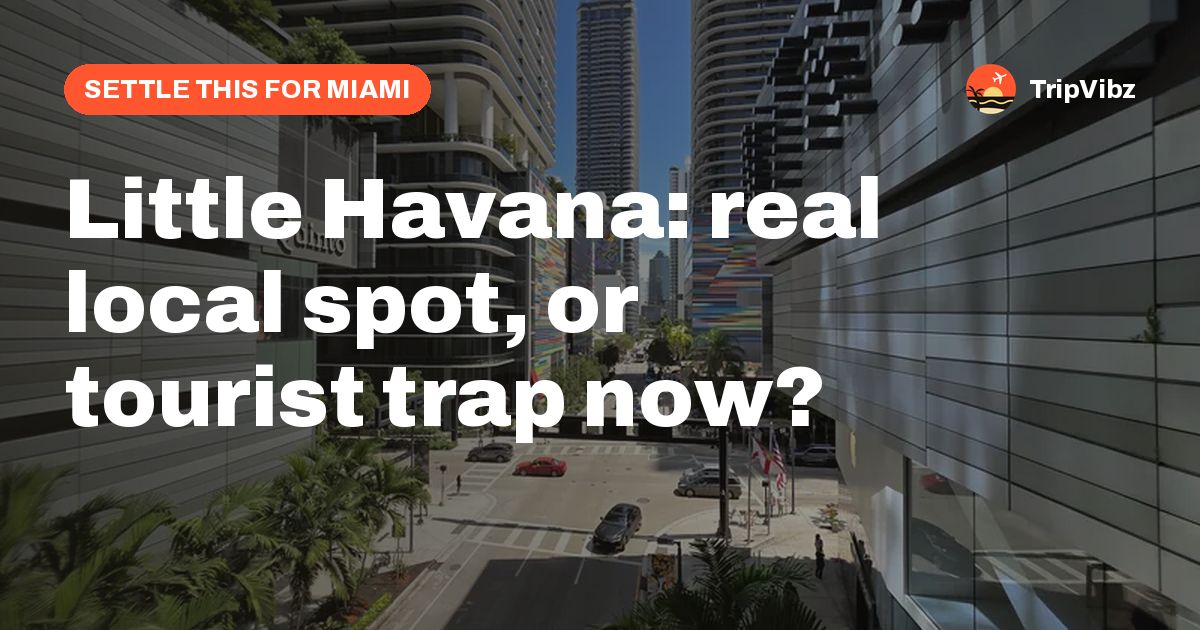
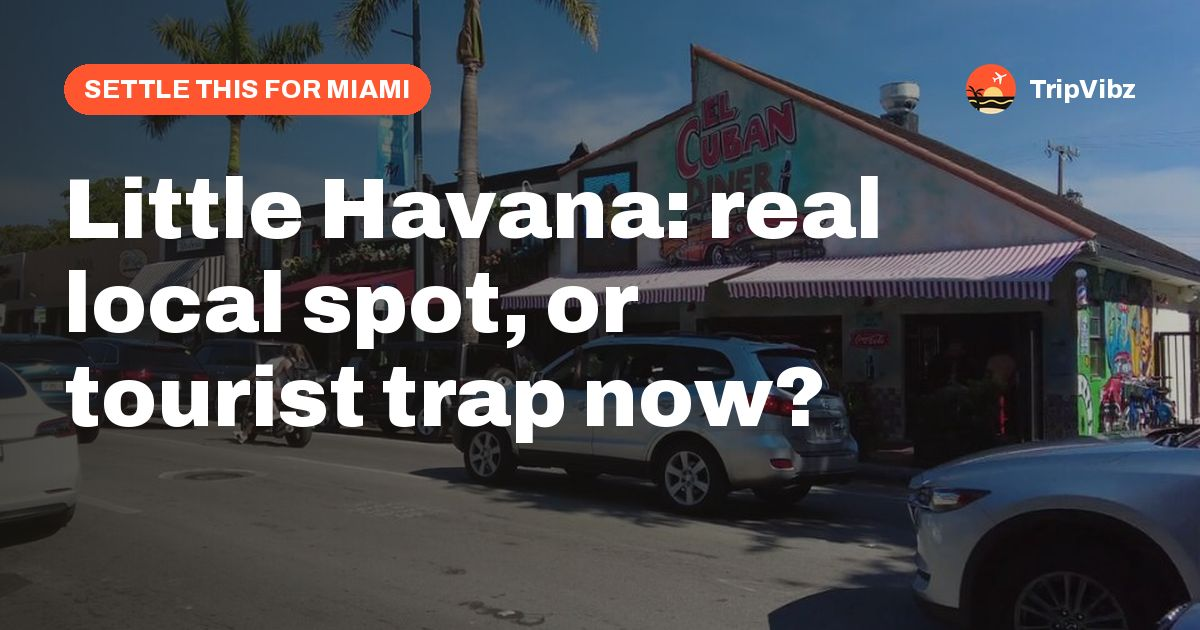
Card photos match the place: Miami's Little Havana card, and a rule for every city
Miami's lead question is about Little Havana, but its share card and email card
drew it over the city photo, which is Brickell. A card whose headline is about
one place has to show that place.

- data/card-photos/: a photo of the place a city's lead question is about
  (<slug>.jpg), plus index.json recording, for every city, whether its cards
  use a place photo (place), the city photo because it already shows the place
  or the question is about the whole city (city), or still need one (needed).
  Today: 1 place (Miami), 9 city, 14 needed.
- scripts/og_cards.py draws the lead-question cards (<slug>.jpg and
  <slug>-email.jpg) over the place photo when there is one.
- Miami: Calle Ocho photo from the Miami Take media library; both cards redrawn.
- tests/static.mjs: every city has an entry checked against its current lead
  question, a place entry has its photo, and the script uses it. A changed
  lead question or a new city fails until the card has been looked at.
- CLAUDE.md: the rule, including that a needed card is not used in an email,
  ad, reel or post.

Claude-Session: https://claude.ai/code/session_01NyWSecxYmZtntfacCNApmR

diff --git a/scripts/og_cards.py b/scripts/og_cards.py
@@ -13,6 +13,10 @@ og:image at its card; functions/t/[id].js does the same for shared takes.
   <slug>-take.jpg                  a shared take: "A <City> local says…" True / Nope
   <slug>-email.jpg                 the lead question with no answer pills, for the top of a city email
                                    (the email puts real answer buttons under it)
+
+A card whose headline is about one place shows that place. The lead-question cards
+(<slug>.jpg and <slug>-email.jpg) use data/card-photos/<slug>.jpg when there is one, otherwise
+the city photo; data/card-photos/index.json records which each city uses and why.
   home.jpg                         homepage
   cities.jpg                       the Cities page
 
@@ -29,6 +33,7 @@ HERE = os.path.dirname(os.path.abspath(__file__))
 FONT = os.path.join(HERE, "fonts", "Archivo.ttf")
 MARK = os.path.join(HERE, "..", "assets", "brand", "mark-512.png")
 OUT = os.path.join(HERE, "..", "assets", "og")
+CARD_PHOTOS = os.path.join(HERE, "..", "data", "card-photos")
 W, H, PAD = 1200, 630, 64
 CORAL, INK, WHITE, SOFT = (255, 86, 48), (22, 20, 15), (255, 255, 255), (232, 226, 214)
 JPEG = dict(quality=80, optimize=True, progressive=True)
@@ -258,8 +263,11 @@ def main(only):
             print(f"  skip {c['slug']}: no photo"); continue
         mine = [q for q in qs if q["city_id"] == c["id"]]
         if mine:
-            save(card_question(c, mine[0], pb), f"{c['slug']}.jpg")
-            save(card_email(c, mine[0], pb), f"{c['slug']}-email.jpg")
+            # The lead question's cards show the place the question is about, when there is a photo of it.
+            pp = os.path.join(CARD_PHOTOS, c["slug"] + ".jpg")
+            qb = open(pp, "rb").read() if os.path.exists(pp) else pb
+            save(card_question(c, mine[0], qb), f"{c['slug']}.jpg")
+            save(card_email(c, mine[0], qb), f"{c['slug']}-email.jpg")
             meta[c["slug"]] = {"prompt": mine[0]["prompt"]}
         for t in THEMES:
             save(card_theme(c, t, pb), f"{c['slug']}-{t}.jpg")

diff --git a/tests/README.md b/tests/README.md
@@ -45,6 +45,7 @@ The database lint needs the database URL: `psql "$SUPABASE_DB_URL" -f tests/db-s
 | Posting a take (anonymous) | Kind, starter, place (typed, no pin), month, tenure, preview, posted page, 1080×1920 share card | e2e |
 | Add page = the city's questions | Every active question as a card with its options; one tap records the answer (`question_votes`) and opens an optional "Say why" box; a sentence posts a take tied to the question (`question_id`, title = answer + sentence) and the card then shows it; "Just the answer is fine" closes the box; optional place search in the why box; progress counter; `?kind=` from a topic page orders matching questions first; "Something we didn't ask about?" sends a suggested question for review (pending take with a topic); anonymous visitors get a quiet sign-in nudge. No free-text composer on the page — it survives only for admin reply links (`/add/?text=`) | e2e |
 | Email cards | `assets/og/<slug>-email.jpg` for every city with questions: the lead question over the city photo with no answer pills (the email's own buttons sit under it), 1200×630, written by `scripts/og_cards.py` | static + perf (size budget) |
+| Card photos match the place | A card whose headline is about one place shows that place. `data/card-photos/index.json` records, per city, whether the lead-question cards use a place photo (`place`), the city photo that already shows it (`city`), or still need one (`needed`, not to be used in emails or posts). Fails when a city has no entry, when its lead question changed since the photo was checked, or when a `place` entry has no photo | static |
 | Answer links (email buttons) | `/<city>/add/?q=<question id>&a=<option id>` saves that answer once as if tapped, puts the question first with its why box open, and drops `q`/`a` from the address so a refresh doesn't answer again; an answer the person already gave is never overwritten; an unknown option saves nothing | e2e |
 | Already said (add page) | After you answer, the question's approved takes from other people show above the why box ("Already said · N", 3 shown); "Same as mine" sends a True vote on that take instead of a new post and the card shows "You agreed with"; your own takes (any browser you're signed in on) show as "Your take"; the sign-in nudge says answers follow you across devices; migration 20261112180000 links the takes posted before preset questions to the question they answer | e2e |
 | Where is this? (custom take via admin reply link, and the why box) | 16px search over spots, neighborhoods and restaurants (`search_take_places`); a catalogue pick is copied in server-side (`ensure_spot_from_place`, intercepted) and pins the take; a TripVibz spot goes straight on the take; "Change" clears it; a name with no match posts as typed without a pin | e2e |

diff --git a/CLAUDE.md b/CLAUDE.md
@@ -90,6 +90,23 @@ can: Privacy must name every outside service the site loads or calls and
 every table that stores what people enter; retired wording fails the build;
 About must list the main features (add yours to its list).
 
+## The picture matches the place
+
+A share card, email card or any other preview image whose headline is about one
+place shows that place. "Little Havana: real local spot, or tourist trap now?"
+over a photo of Brickell is wrong, however good the photo.
+
+- `data/card-photos/index.json` records, for every city's lead question, whether
+  its cards use a photo of the place (`place`, the file is `data/card-photos/<slug>.jpg`),
+  the city photo because it already shows the place or the question is about the
+  whole city (`city`), or still need one (`needed`).
+- **A `needed` card is not used** in an email, an ad, a reel or a social post.
+  Get a photo first (one James has the rights to), or lead with a different question.
+- **Changing a lead question, or adding a city,** means looking at the card and
+  updating the entry; `tests/static.mjs` fails until the entry matches the question.
+- The same goes for images made outside the card script (reels, one-off graphics):
+  check the picture against the words before it goes out.
+
 ## How to build it
 
 Read `docs/ARCHITECTURE.md` before adding a feature that touches the server,

diff --git a/data/card-photos/README.md b/data/card-photos/README.md
@@ -1,0 +1,22 @@
+# Card photos: the picture matches the place
+
+A share card or email card whose headline is about one place shows that place.
+"Little Havana: real local spot, or tourist trap now?" over a photo of Brickell
+is the mistake this folder exists to prevent.
+
+`index.json` has one entry per city, for the city's lead question (the one on
+`assets/og/<slug>.jpg` and `assets/og/<slug>-email.jpg`):
+
+| `photo` | Meaning |
+|---|---|
+| `place` | `<slug>.jpg` in this folder is a photo of the place; the cards use it. |
+| `city` | The city photo already shows the place, or the question is about the whole city. Checked by eye. |
+| `needed` | The question is about a place the city photo does not show. **Do not use this card in an email, ad or post until it has a photo.** |
+
+`prompt` is the lead question the entry was checked against. `tests/static.mjs`
+fails when a city's lead question no longer matches it, so a changed question
+gets its photo looked at again.
+
+To fix a `needed` city: add a photo you have the rights to as `<slug>.jpg`
+(landscape, at least 1200 px wide), set `photo` to `place`, say where it came
+from in `note`, run `python3 scripts/og_cards.py <slug>` and commit `assets/og/`.
